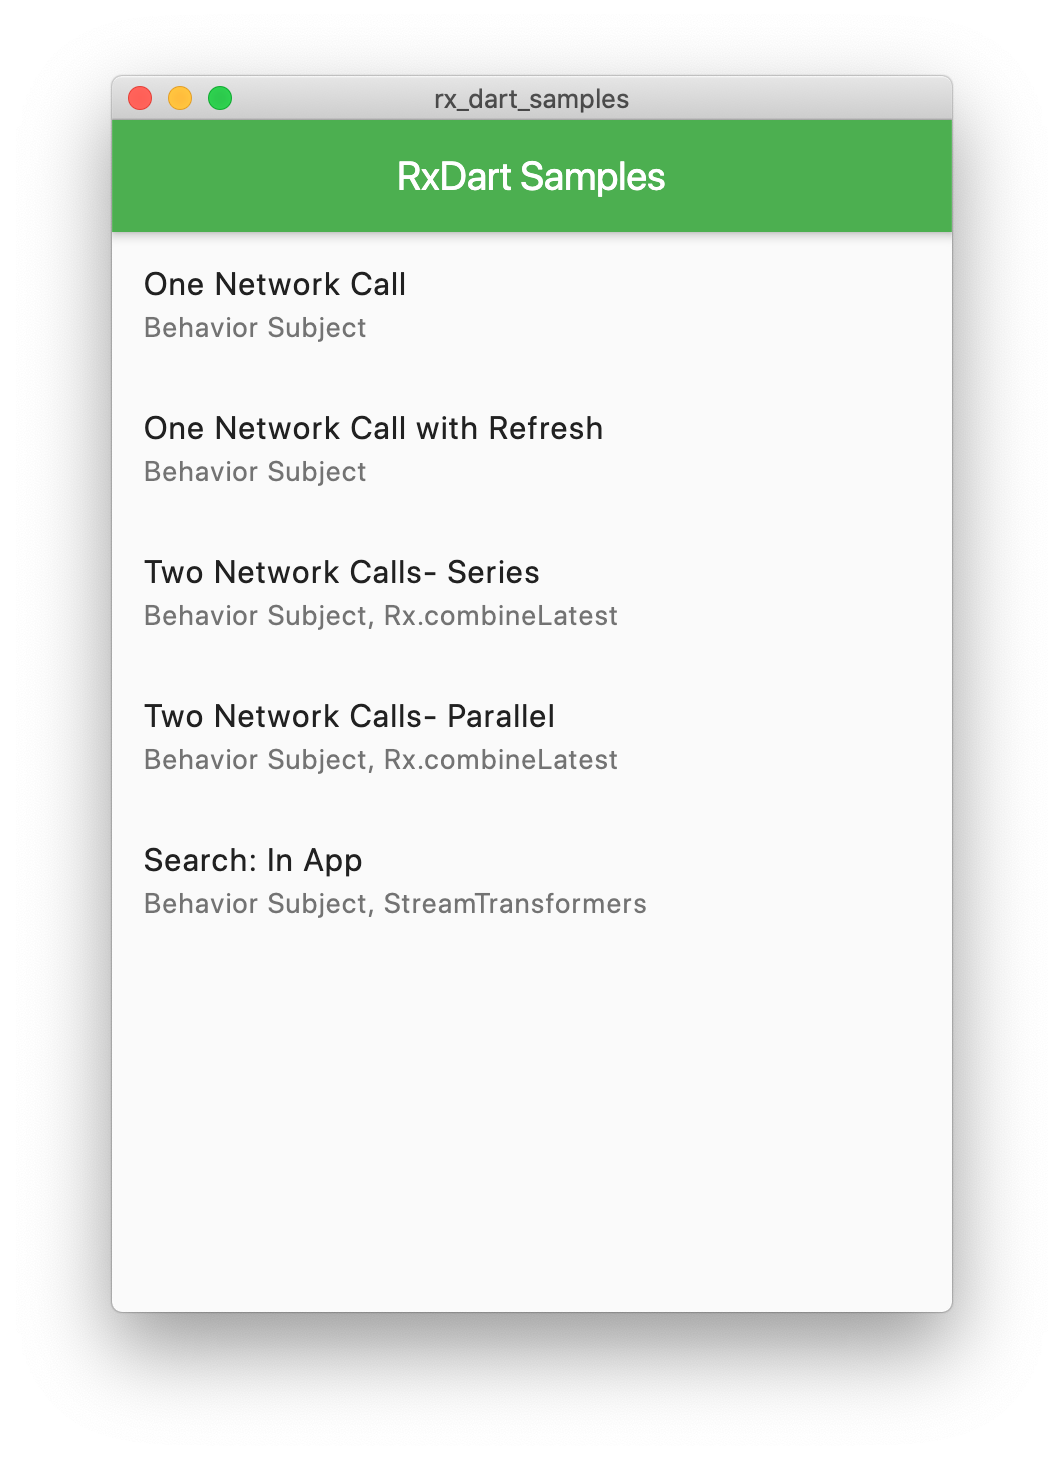
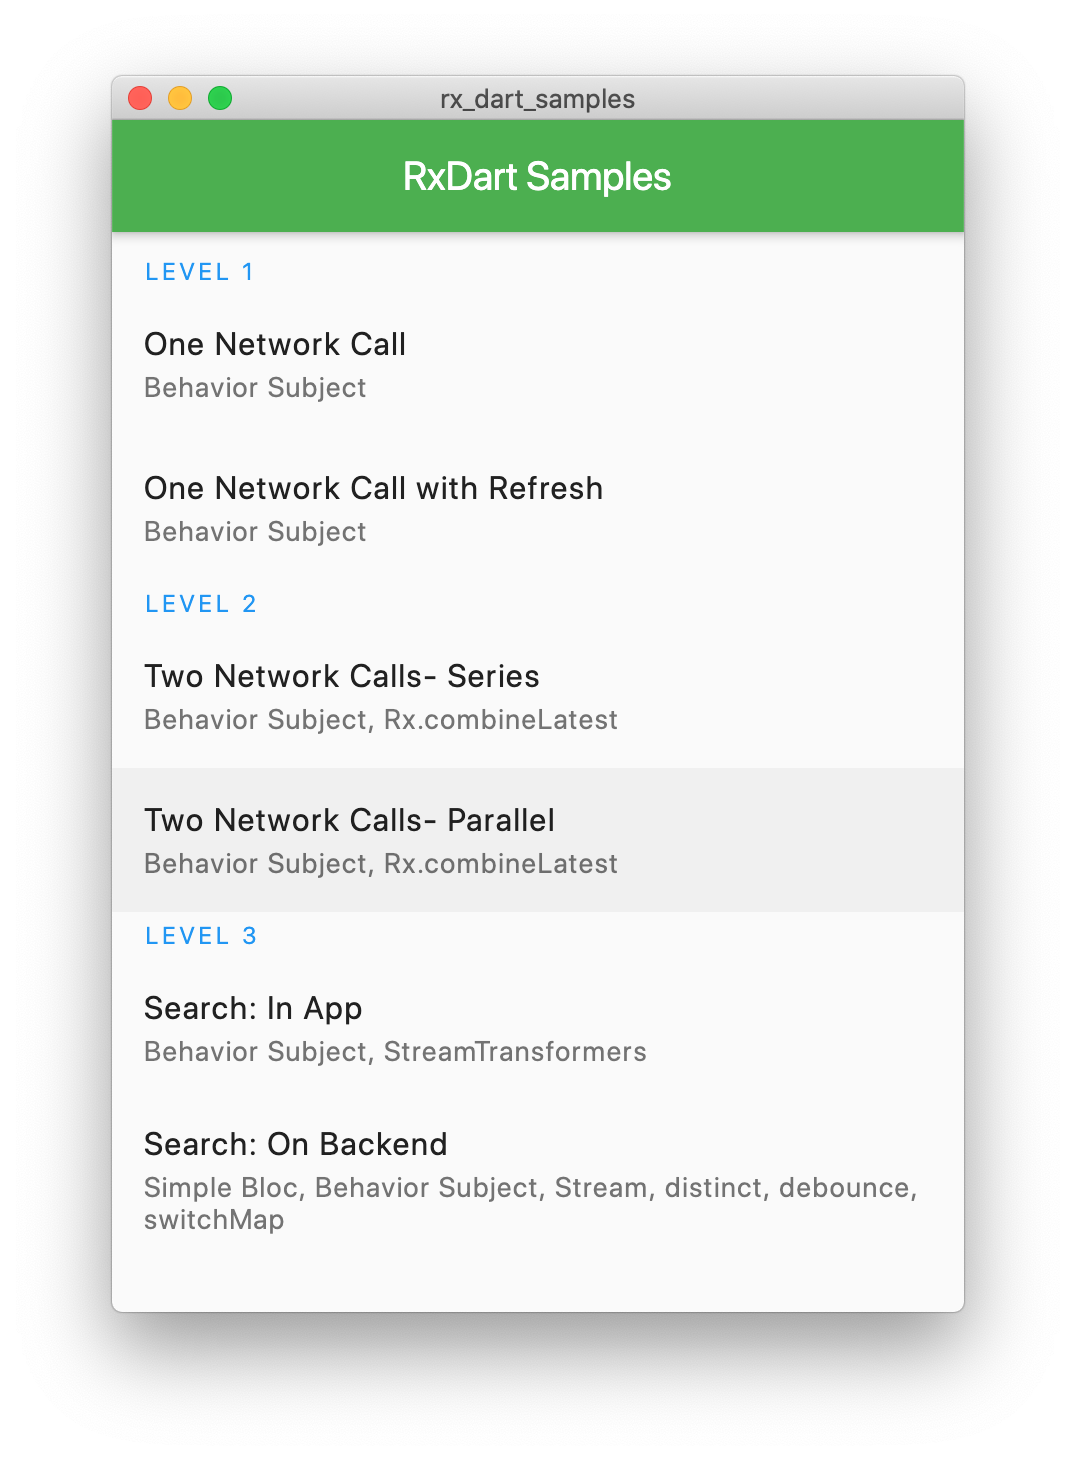
Add search_on_backend.dart

diff --git a/lib/pages/search_on_backend/search_on_backend.dart b/lib/pages/search_on_backend/search_on_backend.dart
@@ -1,0 +1,80 @@
+import 'package:flutter/material.dart';
+import 'package:rx_dart_samples/widgets/no_items_found.dart';
+import 'package:rx_dart_samples/widgets/stream_error_widget.dart';
+import 'package:rx_dart_samples/widgets/stream_loading_widget.dart';
+
+import 'bloc.dart';
+
+class SearchOnBackend extends StatefulWidget {
+  @override
+  _SearchOnBackendState createState() => _SearchOnBackendState();
+}
+
+class _SearchOnBackendState extends State<SearchOnBackend> {
+  final _bloc = Bloc();
+
+  @override
+  void initState() {
+    super.initState();
+    //_bloc.init();
+  }
+
+  @override
+  Widget build(BuildContext context) {
+    return Scaffold(
+      appBar: AppBar(
+        title: const Text("Search: On Backend"),
+      ),
+      body: Column(
+        children: <Widget>[
+          Padding(
+            padding: const EdgeInsets.all(12),
+            child: TextField(
+              controller: _bloc.textController,
+              keyboardType: TextInputType.number,
+              decoration: InputDecoration(
+                contentPadding: const EdgeInsets.all(14),
+                border: OutlineInputBorder(
+                  borderRadius: BorderRadius.circular(8),
+                ),
+                hintText: 'Search with post id...',
+                prefixIcon: Icon(Icons.search),
+              ),
+            ),
+          ),
+          Expanded(
+            child: StreamBuilder<List>(
+              stream: _bloc.dataStream,
+              builder: (context, snapshot) {
+                if (snapshot.hasData && snapshot.data != null) {
+                  return ListView(
+                    children: <Widget>[
+                      if (snapshot.data.isNotEmpty)
+                        ...snapshot.data.map(
+                          (item) => ListTile(
+                            title: Text(item ?? "--"),
+                          ),
+                        )
+                      else
+                        NoItemsFound()
+                    ],
+                  );
+                } else if (snapshot.hasError) {
+                  return StreamErrorWidget(snapshot.error);
+                } else {
+                  return StreamLoadingWidget();
+                }
+              },
+            ),
+          ),
+        ],
+      ),
+    );
+  }
+
+  @override
+  void dispose() {
+    _bloc.dispose();
+    super.dispose();
+  }
+}

diff --git a/lib/home_page.dart b/lib/home_page.dart
@@ -2,8 +2,10 @@ import 'package:flutter/material.dart';
 import 'package:rx_dart_samples/pages/one_network_call.dart';
 import 'package:rx_dart_samples/pages/one_network_call_with_refresh.dart';
 import 'package:rx_dart_samples/pages/search_in_app.dart';
+import 'package:rx_dart_samples/pages/search_on_backend/search_on_backend.dart';
 import 'package:rx_dart_samples/pages/two_network_calls_parallel.dart';
 import 'package:rx_dart_samples/pages/two_network_calls_series.dart';
+import 'package:rx_dart_samples/widgets/menu_header.dart';
 
 class HomePage extends StatefulWidget {
   @override
@@ -19,7 +21,11 @@ class _HomePageState extends State<HomePage> {
       ),
       body: Center(
         child: ListView(
+          padding: EdgeInsets.symmetric(
+            vertical: 8,
+          ),
           children: <Widget>[
+            MenuHeader("Level 1"),
             ListTile(
               title: const Text(
                 "One Network Call",
@@ -52,6 +58,7 @@ class _HomePageState extends State<HomePage> {
                 );
               },
             ),
+            MenuHeader("Level 2"),
             ListTile(
               title: const Text(
                 "Two Network Calls- Series",
@@ -84,6 +91,7 @@ class _HomePageState extends State<HomePage> {
                 );
               },
             ),
+            MenuHeader("Level 3"),
             ListTile(
               title: const Text(
                 "Search: In App",
@@ -96,6 +104,23 @@ class _HomePageState extends State<HomePage> {
                   context,
                   MaterialPageRoute(
                     builder: (_) => SearchInApp(),
+                  ),
+                );
+              },
+            ),
+            ListTile(
+              isThreeLine: true,
+              title: const Text(
+                "Search: On Backend",
+              ),
+              subtitle: const Text(
+                "Simple Bloc, Behavior Subject, Stream, distinct, debounce, switchMap",
+              ),
+              onTap: () {
+                Navigator.push(
+                  context,
+                  MaterialPageRoute(
+                    builder: (_) => SearchOnBackend(),
                   ),
                 );
               },

diff --git a/lib/pages/search_on_backend/bloc.dart b/lib/pages/search_on_backend/bloc.dart
@@ -1,0 +1,59 @@
+import 'dart:convert';
+
+import 'package:flutter/material.dart';
+import 'package:http/http.dart' as http;
+import 'package:rxdart/rxdart.dart';
+
+class Bloc {
+  Bloc() {
+    _addTextChangeListener();
+  }
+
+  final _url = "https://jsonplaceholder.typicode.com/comments";
+  final _textSubject = BehaviorSubject<String>.seeded("");
+
+  final _controller = TextEditingController();
+
+  Stream<List> get dataStream {
+    return _textSubject
+        .distinct()
+        .debounceTime(
+          const Duration(
+            milliseconds: 250,
+          ),
+        )
+        .switchMap<List<String>>(
+          // ignore: unnecessary_lambdas
+          (String value) => _fetchTodos(value),
+        );
+  }
+
+  TextEditingController get textController => _controller;
+
+  Stream<List<String>> _fetchTodos(String value) async* {
+    try {
+      yield null; //To show loader while ongoing request
+      final url = (value != null && value.isNotEmpty) ? "$_url?postId=$value" : _url;
+      final response = await http.get(url);
+      if (response.statusCode == 200) {
+        final list = (jsonDecode(response.body) as List).cast<Map<String, dynamic>>();
+        final nameList = list.map((e) => "Post Id: ${e['postId']}\n${e['name']}").toList();
+        yield nameList;
+      } else {
+        throw Exception("Server Error: ${response.statusCode}");
+      }
+    } catch (e) {
+      rethrow;
+    }
+  }
+
+  void _addTextChangeListener() {
+    _controller.addListener(() {
+      _textSubject.add(_controller.text);
+    });
+  }
+
+  void dispose() {
+    _textSubject.close();
+  }
+}

diff --git a/lib/widgets/menu_header.dart b/lib/widgets/menu_header.dart
@@ -1,0 +1,24 @@
+import 'package:flutter/material.dart';
+
+class MenuHeader extends StatelessWidget {
+  final String title;
+
+  MenuHeader(this.title);
+
+  @override
+  Widget build(BuildContext context) {
+    return Padding(
+      padding: const EdgeInsets.symmetric(
+        vertical: 4 ,
+        horizontal: 16,
+      ),
+      child: Text(
+        title.toUpperCase(),
+        style: Theme.of(context).textTheme.overline.copyWith(
+              fontSize: 12,
+              color: Colors.blue,
+            ),
+      ),
+    );
+  }
+}

diff --git a/README.md b/README.md
@@ -5,12 +5,20 @@ This repo provides basic examples of using RxDart in practical applications.
 
 **The sample(s) will  keep on updating
 
-<img src="https://raw.githubusercontent.com/apgapg/rx_dart_samples/master/res/s1.png" height="400" alt="RxDart"> <img src="https://raw.githubusercontent.com/apgapg/rx_dart_samples/master/res/s2.png" height="400" alt="RxDart"> <img src="https://raw.githubusercontent.com/apgapg/rx_dart_samples/master/res/s3.png" height="400" alt="RxDart"> <img src="https://raw.githubusercontent.com/apgapg/rx_dart_samples/master/res/s4.png" height="400"  alt="RxDart"> <img src="https://raw.githubusercontent.com/apgapg/rx_dart_samples/master/res/s4.png" height="400" alt="RxDart"> <img src="https://raw.githubusercontent.com/apgapg/rx_dart_samples/master/res/s5.png" height="400" alt="RxDart"> <img src="https://raw.githubusercontent.com/apgapg/rx_dart_samples/master/res/s6.png" height="400" alt="RxDart">
+<p align="center">
+  <img src="https://raw.githubusercontent.com/apgapg/rx_dart_samples/master/res/s1.png" height="500" alt="RxDart">
+</p>
+
+<p align="center">
+  <img src="https://raw.githubusercontent.com/apgapg/rx_dart_samples/master/res/s2.png" height="400" alt="RxDart"> <img src="https://raw.githubusercontent.com/apgapg/rx_dart_samples/master/res/s3.png" height="400" alt="RxDart"> <img src="https://raw.githubusercontent.com/apgapg/rx_dart_samples/master/res/s4.png" height="400"  alt="RxDart"> <img src="https://raw.githubusercontent.com/apgapg/rx_dart_samples/master/res/s4.png" height="400" alt="RxDart"> <img src="https://raw.githubusercontent.com/apgapg/rx_dart_samples/master/res/s5.png" height="400" alt="RxDart"> <img src="https://raw.githubusercontent.com/apgapg/rx_dart_samples/master/res/s6.png" height="400" alt="RxDart"> <img src="https://raw.githubusercontent.com/apgapg/rx_dart_samples/master/res/s7.png" height="400" alt="RxDart">
+</p>
+
 
 ### Key Highlights
 - Shows how to use Behavior Subject in network call.
 - Shows how to combine two api result both serial and parallel api requests
 - Shows how to do in app search from a list of data
+- Shows how to do backend search from a query string in an api request
 
 # ⭐ My Flutter Packages
 - [pie_chart](https://pub.dartlang.org/packages/pie_chart)  [![GitHub stars](https://img.shields.io/github/stars/apgapg/pie_chart.svg?style=social)](https://github.com/apgapg/pie_chart)  Flutter Pie Chart with cool animation.
